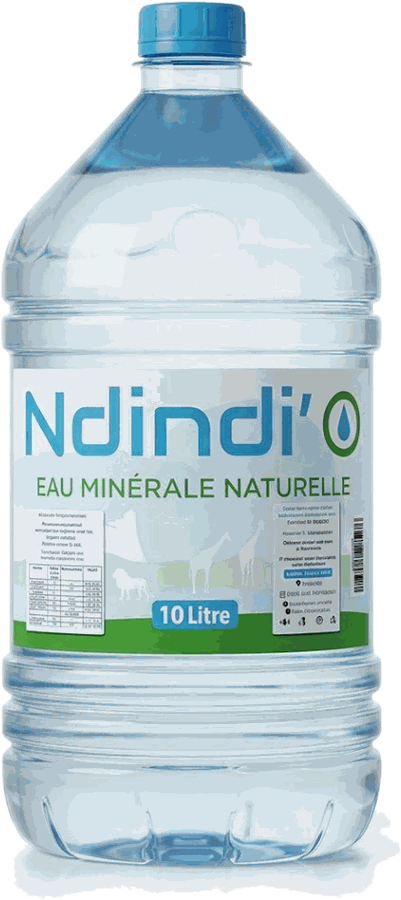
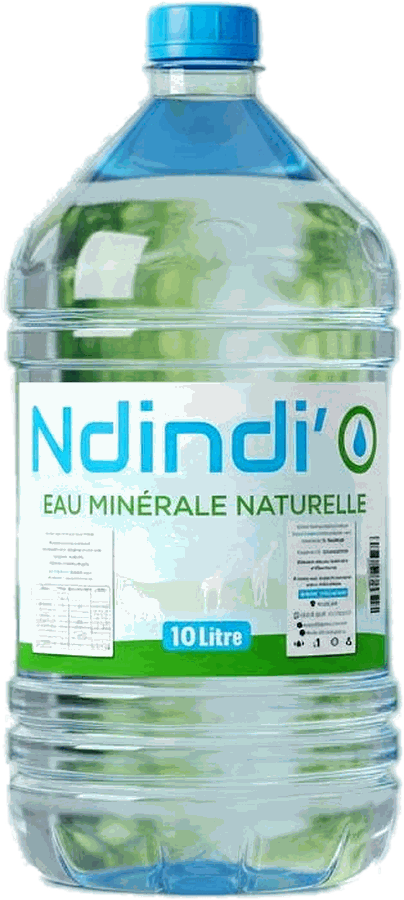
feat: packshot 10 L depuis modele 10L.png, e-mail unifie
Carte 10 L : source modele 10L.png, PNG sans canal alpha pose sur fond
blanc. Fond retire par remplissage par diffusion depuis les bords, comme
pour les deux autres formats.

E-mail : contact@eaundindi.com remplace par eaundindi@gmail.com sur les
7 pages, soit 36 occurrences. Barre du haut, pied de page, page Contact,
et destination des deux formulaires (data-mailto).

README : la section decrivant les anciens decoupages etait obsolete, elle
est reecrite sur l'etat reel.

diff --git a/contact.html b/contact.html
@@ -27,7 +27,7 @@
     <ul class="topbar__list" style="list-style:none;margin:0;padding:0">
       <li><a href="contact.html"><svg viewBox="0 0 24 24" fill="none" stroke="currentColor" stroke-width="1.8"><path d="M12 21s7-5.6 7-11a7 7 0 1 0-14 0c0 5.4 7 11 7 11z"/><circle cx="12" cy="10" r="2.6"/></svg> Touba Affè, Sénégal</a></li>
       <li><a href="tel:+221777882167"><svg viewBox="0 0 24 24" fill="none" stroke="currentColor" stroke-width="1.8"><path d="M22 16.9v3a2 2 0 0 1-2.2 2 19.8 19.8 0 0 1-8.6-3.1 19.5 19.5 0 0 1-6-6A19.8 19.8 0 0 1 2.1 4.2 2 2 0 0 1 4.1 2h3a2 2 0 0 1 2 1.7c.1 1 .4 1.9.7 2.8a2 2 0 0 1-.5 2.1L8.1 9.9a16 16 0 0 0 6 6l1.3-1.2a2 2 0 0 1 2.1-.5c.9.3 1.8.6 2.8.7a2 2 0 0 1 1.7 2z"/></svg> (+221) 77 788 21 67</a></li>
-      <li><a href="mailto:contact@eaundindi.com"><svg viewBox="0 0 24 24" fill="none" stroke="currentColor" stroke-width="1.8"><rect x="2.5" y="4.5" width="19" height="15" rx="2.5"/><path d="m3 7 9 6 9-6"/></svg> contact@eaundindi.com</a></li>
+      <li><a href="mailto:eaundindi@gmail.com"><svg viewBox="0 0 24 24" fill="none" stroke="currentColor" stroke-width="1.8"><rect x="2.5" y="4.5" width="19" height="15" rx="2.5"/><path d="m3 7 9 6 9-6"/></svg> eaundindi@gmail.com</a></li>
     </ul>
     <div class="topbar__social">
       <a href="https://web.facebook.com/profile.php?id=61568722525797" target="_blank" rel="noopener" aria-label="Facebook"><svg viewBox="0 0 24 24" fill="currentColor"><path d="M14 9h3V6h-3c-2.2 0-4 1.8-4 4v2H8v3h2v7h3v-7h3l1-3h-4v-2c0-.6.4-1 1-1z"/></svg></a>
@@ -94,7 +94,7 @@
           <div class="info-tile__ic"><svg viewBox="0 0 24 24" fill="none" stroke="currentColor" stroke-width="1.8"><rect x="2.5" y="4.5" width="19" height="15" rx="2.5"/><path d="m3 7 9 6 9-6"/></svg></div>
           <div>
             <h4>E-mail</h4>
-            <p><a href="mailto:contact@eaundindi.com">contact@eaundindi.com</a></p>
+            <p><a href="mailto:eaundindi@gmail.com">eaundindi@gmail.com</a></p>
           </div>
         </div>
 
@@ -123,7 +123,7 @@
     <div class="card card--dark reveal" data-delay="1" id="formulaire">
       <h3>Envoyez-nous un message</h3>
       <p style="margin-bottom:1.6rem">Remplissez ce formulaire&nbsp;: nous vous répondons dans les meilleurs délais.</p>
-      <form class="form" data-mailto="contact@eaundindi.com" novalidate>
+      <form class="form" data-mailto="eaundindi@gmail.com" novalidate>
         <div class="form__row">
           <div class="field">
             <label for="c-nom">Votre nom</label>
@@ -162,7 +162,7 @@
         <button class="btn btn--primary" type="submit">Envoyer le message
           <svg viewBox="0 0 24 24" fill="none" stroke="currentColor" stroke-width="2"><path d="M5 12h14m-6-6 6 6-6 6"/></svg>
         </button>
-        <p class="form__note" style="color:var(--on-dark-soft)">Vous pouvez aussi écrire directement à <a href="mailto:contact@eaundindi.com" style="color:var(--blue-light)">contact@eaundindi.com</a>.</p>
+        <p class="form__note" style="color:var(--on-dark-soft)">Vous pouvez aussi écrire directement à <a href="mailto:eaundindi@gmail.com" style="color:var(--blue-light)">eaundindi@gmail.com</a>.</p>
       </form>
     </div>
 
@@ -288,7 +288,7 @@
           <li>Touba Affè, Sénégal</li>
           <li><a href="tel:+221777882167">(+221) 77 788 21 67</a></li>
           <li><a href="tel:+221767665528">(+221) 76 766 55 28</a></li>
-          <li><a href="mailto:contact@eaundindi.com">contact@eaundindi.com</a></li>
+          <li><a href="mailto:eaundindi@gmail.com">eaundindi@gmail.com</a></li>
         </ul>
       </div>
     </div>

diff --git a/distribution.html b/distribution.html
@@ -27,7 +27,7 @@
     <ul class="topbar__list" style="list-style:none;margin:0;padding:0">
       <li><a href="contact.html"><svg viewBox="0 0 24 24" fill="none" stroke="currentColor" stroke-width="1.8"><path d="M12 21s7-5.6 7-11a7 7 0 1 0-14 0c0 5.4 7 11 7 11z"/><circle cx="12" cy="10" r="2.6"/></svg> Touba Affè, Sénégal</a></li>
       <li><a href="tel:+221777882167"><svg viewBox="0 0 24 24" fill="none" stroke="currentColor" stroke-width="1.8"><path d="M22 16.9v3a2 2 0 0 1-2.2 2 19.8 19.8 0 0 1-8.6-3.1 19.5 19.5 0 0 1-6-6A19.8 19.8 0 0 1 2.1 4.2 2 2 0 0 1 4.1 2h3a2 2 0 0 1 2 1.7c.1 1 .4 1.9.7 2.8a2 2 0 0 1-.5 2.1L8.1 9.9a16 16 0 0 0 6 6l1.3-1.2a2 2 0 0 1 2.1-.5c.9.3 1.8.6 2.8.7a2 2 0 0 1 1.7 2z"/></svg> (+221) 77 788 21 67</a></li>
-      <li><a href="mailto:contact@eaundindi.com"><svg viewBox="0 0 24 24" fill="none" stroke="currentColor" stroke-width="1.8"><rect x="2.5" y="4.5" width="19" height="15" rx="2.5"/><path d="m3 7 9 6 9-6"/></svg> contact@eaundindi.com</a></li>
+      <li><a href="mailto:eaundindi@gmail.com"><svg viewBox="0 0 24 24" fill="none" stroke="currentColor" stroke-width="1.8"><rect x="2.5" y="4.5" width="19" height="15" rx="2.5"/><path d="m3 7 9 6 9-6"/></svg> eaundindi@gmail.com</a></li>
     </ul>
     <div class="topbar__social">
       <a href="https://web.facebook.com/profile.php?id=61568722525797" target="_blank" rel="noopener" aria-label="Facebook"><svg viewBox="0 0 24 24" fill="currentColor"><path d="M14 9h3V6h-3c-2.2 0-4 1.8-4 4v2H8v3h2v7h3v-7h3l1-3h-4v-2c0-.6.4-1 1-1z"/></svg></a>
@@ -250,7 +250,7 @@
     <div class="card card--dark reveal" data-delay="1">
       <h3>Demande de partenariat</h3>
       <p style="margin-bottom:1.6rem">Renseignez ces quelques informations&nbsp;: nous revenons vers vous rapidement.</p>
-      <form class="form" data-mailto="contact@eaundindi.com" novalidate>
+      <form class="form" data-mailto="eaundindi@gmail.com" novalidate>
         <div class="form__row">
           <div class="field">
             <label for="p-nom">Nom et prénom</label>
@@ -337,7 +337,7 @@
           <li>Touba Affè, Sénégal</li>
           <li><a href="tel:+221777882167">(+221) 77 788 21 67</a></li>
           <li><a href="tel:+221767665528">(+221) 76 766 55 28</a></li>
-          <li><a href="mailto:contact@eaundindi.com">contact@eaundindi.com</a></li>
+          <li><a href="mailto:eaundindi@gmail.com">eaundindi@gmail.com</a></li>
         </ul>
       </div>
     </div>

diff --git a/engagement.html b/engagement.html
@@ -27,7 +27,7 @@
     <ul class="topbar__list" style="list-style:none;margin:0;padding:0">
       <li><a href="contact.html"><svg viewBox="0 0 24 24" fill="none" stroke="currentColor" stroke-width="1.8"><path d="M12 21s7-5.6 7-11a7 7 0 1 0-14 0c0 5.4 7 11 7 11z"/><circle cx="12" cy="10" r="2.6"/></svg> Touba Affè, Sénégal</a></li>
       <li><a href="tel:+221777882167"><svg viewBox="0 0 24 24" fill="none" stroke="currentColor" stroke-width="1.8"><path d="M22 16.9v3a2 2 0 0 1-2.2 2 19.8 19.8 0 0 1-8.6-3.1 19.5 19.5 0 0 1-6-6A19.8 19.8 0 0 1 2.1 4.2 2 2 0 0 1 4.1 2h3a2 2 0 0 1 2 1.7c.1 1 .4 1.9.7 2.8a2 2 0 0 1-.5 2.1L8.1 9.9a16 16 0 0 0 6 6l1.3-1.2a2 2 0 0 1 2.1-.5c.9.3 1.8.6 2.8.7a2 2 0 0 1 1.7 2z"/></svg> (+221) 77 788 21 67</a></li>
-      <li><a href="mailto:contact@eaundindi.com"><svg viewBox="0 0 24 24" fill="none" stroke="currentColor" stroke-width="1.8"><rect x="2.5" y="4.5" width="19" height="15" rx="2.5"/><path d="m3 7 9 6 9-6"/></svg> contact@eaundindi.com</a></li>
+      <li><a href="mailto:eaundindi@gmail.com"><svg viewBox="0 0 24 24" fill="none" stroke="currentColor" stroke-width="1.8"><rect x="2.5" y="4.5" width="19" height="15" rx="2.5"/><path d="m3 7 9 6 9-6"/></svg> eaundindi@gmail.com</a></li>
     </ul>
     <div class="topbar__social">
       <a href="https://web.facebook.com/profile.php?id=61568722525797" target="_blank" rel="noopener" aria-label="Facebook"><svg viewBox="0 0 24 24" fill="currentColor"><path d="M14 9h3V6h-3c-2.2 0-4 1.8-4 4v2H8v3h2v7h3v-7h3l1-3h-4v-2c0-.6.4-1 1-1z"/></svg></a>
@@ -229,7 +229,7 @@
           <li>Touba Affè, Sénégal</li>
           <li><a href="tel:+221777882167">(+221) 77 788 21 67</a></li>
           <li><a href="tel:+221767665528">(+221) 76 766 55 28</a></li>
-          <li><a href="mailto:contact@eaundindi.com">contact@eaundindi.com</a></li>
+          <li><a href="mailto:eaundindi@gmail.com">eaundindi@gmail.com</a></li>
         </ul>
       </div>
     </div>

diff --git a/index.html b/index.html
@@ -28,7 +28,7 @@
     <ul class="topbar__list" style="list-style:none;margin:0;padding:0">
       <li><a href="contact.html"><svg viewBox="0 0 24 24" fill="none" stroke="currentColor" stroke-width="1.8"><path d="M12 21s7-5.6 7-11a7 7 0 1 0-14 0c0 5.4 7 11 7 11z"/><circle cx="12" cy="10" r="2.6"/></svg> Touba Affè, Sénégal</a></li>
       <li><a href="tel:+221777882167"><svg viewBox="0 0 24 24" fill="none" stroke="currentColor" stroke-width="1.8"><path d="M22 16.9v3a2 2 0 0 1-2.2 2 19.8 19.8 0 0 1-8.6-3.1 19.5 19.5 0 0 1-6-6A19.8 19.8 0 0 1 2.1 4.2 2 2 0 0 1 4.1 2h3a2 2 0 0 1 2 1.7c.1 1 .4 1.9.7 2.8a2 2 0 0 1-.5 2.1L8.1 9.9a16 16 0 0 0 6 6l1.3-1.2a2 2 0 0 1 2.1-.5c.9.3 1.8.6 2.8.7a2 2 0 0 1 1.7 2z"/></svg> (+221) 77 788 21 67</a></li>
-      <li><a href="mailto:contact@eaundindi.com"><svg viewBox="0 0 24 24" fill="none" stroke="currentColor" stroke-width="1.8"><rect x="2.5" y="4.5" width="19" height="15" rx="2.5"/><path d="m3 7 9 6 9-6"/></svg> contact@eaundindi.com</a></li>
+      <li><a href="mailto:eaundindi@gmail.com"><svg viewBox="0 0 24 24" fill="none" stroke="currentColor" stroke-width="1.8"><rect x="2.5" y="4.5" width="19" height="15" rx="2.5"/><path d="m3 7 9 6 9-6"/></svg> eaundindi@gmail.com</a></li>
     </ul>
     <div class="topbar__social">
       <a href="https://web.facebook.com/profile.php?id=61568722525797" target="_blank" rel="noopener" aria-label="Facebook"><svg viewBox="0 0 24 24" fill="currentColor"><path d="M14 9h3V6h-3c-2.2 0-4 1.8-4 4v2H8v3h2v7h3v-7h3l1-3h-4v-2c0-.6.4-1 1-1z"/></svg></a>
@@ -381,7 +381,7 @@
           <li>Touba Affè, Sénégal</li>
           <li><a href="tel:+221777882167">(+221) 77 788 21 67</a></li>
           <li><a href="tel:+221767665528">(+221) 76 766 55 28</a></li>
-          <li><a href="mailto:contact@eaundindi.com">contact@eaundindi.com</a></li>
+          <li><a href="mailto:eaundindi@gmail.com">eaundindi@gmail.com</a></li>
         </ul>
       </div>
     </div>

diff --git a/mediatheque.html b/mediatheque.html
@@ -27,7 +27,7 @@
     <ul class="topbar__list" style="list-style:none;margin:0;padding:0">
       <li><a href="contact.html"><svg viewBox="0 0 24 24" fill="none" stroke="currentColor" stroke-width="1.8"><path d="M12 21s7-5.6 7-11a7 7 0 1 0-14 0c0 5.4 7 11 7 11z"/><circle cx="12" cy="10" r="2.6"/></svg> Touba Affè, Sénégal</a></li>
       <li><a href="tel:+221777882167"><svg viewBox="0 0 24 24" fill="none" stroke="currentColor" stroke-width="1.8"><path d="M22 16.9v3a2 2 0 0 1-2.2 2 19.8 19.8 0 0 1-8.6-3.1 19.5 19.5 0 0 1-6-6A19.8 19.8 0 0 1 2.1 4.2 2 2 0 0 1 4.1 2h3a2 2 0 0 1 2 1.7c.1 1 .4 1.9.7 2.8a2 2 0 0 1-.5 2.1L8.1 9.9a16 16 0 0 0 6 6l1.3-1.2a2 2 0 0 1 2.1-.5c.9.3 1.8.6 2.8.7a2 2 0 0 1 1.7 2z"/></svg> (+221) 77 788 21 67</a></li>
-      <li><a href="mailto:contact@eaundindi.com"><svg viewBox="0 0 24 24" fill="none" stroke="currentColor" stroke-width="1.8"><rect x="2.5" y="4.5" width="19" height="15" rx="2.5"/><path d="m3 7 9 6 9-6"/></svg> contact@eaundindi.com</a></li>
+      <li><a href="mailto:eaundindi@gmail.com"><svg viewBox="0 0 24 24" fill="none" stroke="currentColor" stroke-width="1.8"><rect x="2.5" y="4.5" width="19" height="15" rx="2.5"/><path d="m3 7 9 6 9-6"/></svg> eaundindi@gmail.com</a></li>
     </ul>
     <div class="topbar__social">
       <a href="https://web.facebook.com/profile.php?id=61568722525797" target="_blank" rel="noopener" aria-label="Facebook"><svg viewBox="0 0 24 24" fill="currentColor"><path d="M14 9h3V6h-3c-2.2 0-4 1.8-4 4v2H8v3h2v7h3v-7h3l1-3h-4v-2c0-.6.4-1 1-1z"/></svg></a>
@@ -225,7 +225,7 @@
           <li>Touba Affè, Sénégal</li>
           <li><a href="tel:+221777882167">(+221) 77 788 21 67</a></li>
           <li><a href="tel:+221767665528">(+221) 76 766 55 28</a></li>
-          <li><a href="mailto:contact@eaundindi.com">contact@eaundindi.com</a></li>
+          <li><a href="mailto:eaundindi@gmail.com">eaundindi@gmail.com</a></li>
         </ul>
       </div>
     </div>

diff --git a/nos-formats.html b/nos-formats.html
@@ -27,7 +27,7 @@
     <ul class="topbar__list" style="list-style:none;margin:0;padding:0">
       <li><a href="contact.html"><svg viewBox="0 0 24 24" fill="none" stroke="currentColor" stroke-width="1.8"><path d="M12 21s7-5.6 7-11a7 7 0 1 0-14 0c0 5.4 7 11 7 11z"/><circle cx="12" cy="10" r="2.6"/></svg> Touba Affè, Sénégal</a></li>
       <li><a href="tel:+221777882167"><svg viewBox="0 0 24 24" fill="none" stroke="currentColor" stroke-width="1.8"><path d="M22 16.9v3a2 2 0 0 1-2.2 2 19.8 19.8 0 0 1-8.6-3.1 19.5 19.5 0 0 1-6-6A19.8 19.8 0 0 1 2.1 4.2 2 2 0 0 1 4.1 2h3a2 2 0 0 1 2 1.7c.1 1 .4 1.9.7 2.8a2 2 0 0 1-.5 2.1L8.1 9.9a16 16 0 0 0 6 6l1.3-1.2a2 2 0 0 1 2.1-.5c.9.3 1.8.6 2.8.7a2 2 0 0 1 1.7 2z"/></svg> (+221) 77 788 21 67</a></li>
-      <li><a href="mailto:contact@eaundindi.com"><svg viewBox="0 0 24 24" fill="none" stroke="currentColor" stroke-width="1.8"><rect x="2.5" y="4.5" width="19" height="15" rx="2.5"/><path d="m3 7 9 6 9-6"/></svg> contact@eaundindi.com</a></li>
+      <li><a href="mailto:eaundindi@gmail.com"><svg viewBox="0 0 24 24" fill="none" stroke="currentColor" stroke-width="1.8"><rect x="2.5" y="4.5" width="19" height="15" rx="2.5"/><path d="m3 7 9 6 9-6"/></svg> eaundindi@gmail.com</a></li>
     </ul>
     <div class="topbar__social">
       <a href="https://web.facebook.com/profile.php?id=61568722525797" target="_blank" rel="noopener" aria-label="Facebook"><svg viewBox="0 0 24 24" fill="currentColor"><path d="M14 9h3V6h-3c-2.2 0-4 1.8-4 4v2H8v3h2v7h3v-7h3l1-3h-4v-2c0-.6.4-1 1-1z"/></svg></a>
@@ -303,7 +303,7 @@
           <li>Touba Affè, Sénégal</li>
           <li><a href="tel:+221777882167">(+221) 77 788 21 67</a></li>
           <li><a href="tel:+221767665528">(+221) 76 766 55 28</a></li>
-          <li><a href="mailto:contact@eaundindi.com">contact@eaundindi.com</a></li>
+          <li><a href="mailto:eaundindi@gmail.com">eaundindi@gmail.com</a></li>
         </ul>
       </div>
     </div>

diff --git a/notre-eau.html b/notre-eau.html
@@ -27,7 +27,7 @@
     <ul class="topbar__list" style="list-style:none;margin:0;padding:0">
       <li><a href="contact.html"><svg viewBox="0 0 24 24" fill="none" stroke="currentColor" stroke-width="1.8"><path d="M12 21s7-5.6 7-11a7 7 0 1 0-14 0c0 5.4 7 11 7 11z"/><circle cx="12" cy="10" r="2.6"/></svg> Touba Affè, Sénégal</a></li>
       <li><a href="tel:+221777882167"><svg viewBox="0 0 24 24" fill="none" stroke="currentColor" stroke-width="1.8"><path d="M22 16.9v3a2 2 0 0 1-2.2 2 19.8 19.8 0 0 1-8.6-3.1 19.5 19.5 0 0 1-6-6A19.8 19.8 0 0 1 2.1 4.2 2 2 0 0 1 4.1 2h3a2 2 0 0 1 2 1.7c.1 1 .4 1.9.7 2.8a2 2 0 0 1-.5 2.1L8.1 9.9a16 16 0 0 0 6 6l1.3-1.2a2 2 0 0 1 2.1-.5c.9.3 1.8.6 2.8.7a2 2 0 0 1 1.7 2z"/></svg> (+221) 77 788 21 67</a></li>
-      <li><a href="mailto:contact@eaundindi.com"><svg viewBox="0 0 24 24" fill="none" stroke="currentColor" stroke-width="1.8"><rect x="2.5" y="4.5" width="19" height="15" rx="2.5"/><path d="m3 7 9 6 9-6"/></svg> contact@eaundindi.com</a></li>
+      <li><a href="mailto:eaundindi@gmail.com"><svg viewBox="0 0 24 24" fill="none" stroke="currentColor" stroke-width="1.8"><rect x="2.5" y="4.5" width="19" height="15" rx="2.5"/><path d="m3 7 9 6 9-6"/></svg> eaundindi@gmail.com</a></li>
     </ul>
     <div class="topbar__social">
       <a href="https://web.facebook.com/profile.php?id=61568722525797" target="_blank" rel="noopener" aria-label="Facebook"><svg viewBox="0 0 24 24" fill="currentColor"><path d="M14 9h3V6h-3c-2.2 0-4 1.8-4 4v2H8v3h2v7h3v-7h3l1-3h-4v-2c0-.6.4-1 1-1z"/></svg></a>
@@ -253,7 +253,7 @@
           <li>Touba Affè, Sénégal</li>
           <li><a href="tel:+221777882167">(+221) 77 788 21 67</a></li>
           <li><a href="tel:+221767665528">(+221) 76 766 55 28</a></li>
-          <li><a href="mailto:contact@eaundindi.com">contact@eaundindi.com</a></li>
+          <li><a href="mailto:eaundindi@gmail.com">eaundindi@gmail.com</a></li>
         </ul>
       </div>
     </div>

diff --git a/README.md b/README.md
@@ -68,29 +68,35 @@ du véhicule de livraison de la marque — à confirmer avant publication.
 Aucun chiffre non vérifié (capacité de production, effectifs, parts de marché,
 nombre de points de vente) n'a été publié.
 
-## Visuels produit — packshots officiels
+## Cartes de format — packshots détourés
 
-Les trois cartes de format viennent désormais de vraies prises de vue produit
-fournies par la marque, et non plus de découpes dans une affiche promotionnelle.
+Les trois cartes utilisent des packshots **détourés** fournis par la marque : la
+bouteille flotte sur la carte, sans cadre ni fond, avec une simple ombre portée.
 
-| Fichier | Format | Source | Découpe |
+| Fichier | Format | Source | Hauteur d'affichage |
 |---|---|---|---|
-| `produit-350.jpg` | 350 ml | `images/New/Bureau fille 3 bouteilles de Ndindi.jfif` | 102, 436, 190, 698 |
-| `produit-15l.jpg` | 1,5 L | `images/New/Bureau fille 3 bouteilles de Ndindi.jfif` | 186, 310, 296, 698 |
-| `produit-10l.jpg` | 10 L | `images/New/grand format 10L5.jfif` | 175, 10, 615, 760 |
+| `produit-350.png` | 350 ml | `images/New/petit modele.png` | 200 px |
+| `produit-15l.png` | 1,5 L | `images/New/modele moyen.png` | 325 px |
+| `produit-10l.png` | 10 L | `images/New/modele 10L.png` | 400 px |
 
-La hauteur d'affichage de chaque vignette (`--shot-h` : 200 / 325 / 400 px)
-reproduit l'échelle réelle entre les formats, les trois reposant sur une ligne
-de base commune.
+Les hauteurs reproduisent l'échelle réelle entre les contenants, les trois
+reposant sur une ligne de base commune.
 
-Le 350 ml et le 1,5 L sont découpés dans la même photo de bureau : même fond
-olive, même table blanche, même éclairage, et surtout le rapport de taille réel
-entre les deux contenants. Les découpes font 88×262 et 110×388 pixels, donc
-réduites à l'affichage et jamais agrandies. Le 10 L garde son packshot sur fond
-vert flouté : c'est le seul dont on dispose.
+**Deux pièges rencontrés, à connaître si vous refaites l'opération.**
 
-Les découpes précédentes, issues de l'affiche Korité, ont été remplacées, ainsi
-que `b2.jpg` (bouteille avec pastille ronde) et `pack-350.png`, retirés du site.
+Le 350 ml et le 1,5 L arrivent déjà détourés, mais leurs PNG contiennent un halo
+semi-transparent bien plus large que la bouteille. Un `getbbox()` naïf garde ce
+halo et fait paraître la bouteille deux fois plus étroite qu'elle ne devrait dans
+son cadre. Le recadrage se fait sur les pixels d'alpha > 10.
+
+Le 10 L arrive en PNG **sans canal alpha**, posé sur fond blanc. Le fond est
+retiré par remplissage par diffusion depuis les bords, ce qui efface le blanc
+*relié au bord* sans toucher à l'intérieur de la bouteille, blanc lui aussi à
+plusieurs endroits. Un simple seuil de luminosité aurait percé l'étiquette et
+l'eau.
+
+Les découpes précédentes, issues de l'affiche Korité puis de la photo de bureau,
+ont été remplacées. `b2.jpg` et `pack-350.png` ont été retirés du site.
 
 ## Autres visuels fournis par la marque
 
@@ -116,7 +122,7 @@ Nouveau lot fourni par la marque, rangé dans `images/New/`.
 | `logo-ndindi.jpg` | En-tête, pied de page et icône des 7 pages | `images/New/LOGO250-150x150.jpg` |
 | `produit-350.png` | Carte 350 ml | `images/New/petit modele.png`, détouré |
 | `produit-15l.png` | Carte 1,5 L | `images/New/modele moyen.png`, détouré |
-| `produit-10l.png` | Carte 10 L | `images/New/grand modele.jfif`, fond blanc retiré |
+| `produit-10l.png` | Carte 10 L | `images/New/modele 10L.png`, fond blanc retiré |
 | `agents-commerciaux.jpg` | Distribution, « Vos agents commerciaux » | commerciaux |
 
 Trois vidéos ont rejoint la médiathèque, dans `assets/video/` : `tapis-roulant.mp4`
@@ -126,14 +132,17 @@ chargées en `preload="metadata"`.
 
 ### Deux points en attente
 
-1. **Trois jeux de coordonnées coexistent.** Le carton `commerciaux.jfif` est
-   publié sur la page Distribution, section « Vos agents commerciaux », sur
-   décision de la marque. Il affiche `+221 78 123 45 67`, `eau.ndindi@gmail.com`
-   et `www.ndindi-eau.sn`. Le carton `logonouveau` donne `eaundindi@gmail.com` et
-   `+221 78 293 77 38`. Le site affiche, lui, `contact@eaundindi.com` et
+1. **Coordonnées : l'e-mail est tranché, les numéros ne le sont pas.**
+   `eaundindi@gmail.com` est l'adresse retenue, appliquée partout : barre du
+   haut, pied de page, page Contact, et destination des deux formulaires
+   (`data-mailto`). L'ancienne `contact@eaundindi.com` n'apparaît plus nulle part.
+
+   Restent divergents : le carton `commerciaux.jfif`, publié sur la page
+   Distribution, affiche `+221 78 123 45 67` et le site `www.ndindi-eau.sn` ;
+   le carton `logonouveau` donne `+221 78 293 77 38` ; le site affiche
    `+221 76 766 55 28`. Seuls les deux numéros d'agents ont été transcrits en
-   liens cliquables ; la ligne de contact générique du carton n'a pas été reprise
-   en texte, pour ne pas contredire l'en-tête et le pied de page. À unifier.
+   liens cliquables, la ligne générique du carton reste visible dans l'image
+   uniquement. À unifier.
 2. **Le logo sert aussi de favicon**, en 150×150 JPEG. Un PNG transparent ou un
    SVG donnerait un rendu plus net, et 180×180 serait préférable pour l'icône
    iOS. Le mot-vedette « Ndindi'O » de l'en-tête reste composé en Cormorant
@@ -161,24 +170,6 @@ deux images.
 sous le mot-vedette de l'en-tête des 7 pages, dans le titre de la page d'accueil,
 dans le pied de page et dans la méta description. La ligne de signature qui
 répétait l'ancien slogan sous le héros a été retirée.
-
-### Cartes de format
-
-Les trois formats utilisent des packshots **détourés** : la bouteille flotte sur
-la carte, sans cadre ni fond, avec une simple ombre portée. Hauteurs d'affichage
-200 / 325 / 400 px, fidèles à l'échelle réelle entre les contenants, les trois
-reposant sur une ligne de base commune.
-
-Le 350 ml et le 1,5 L viennent de PNG déjà détourés. Le 10 L vient d'un JPEG sur
-fond blanc&nbsp;: le fond a été retiré par remplissage par diffusion depuis les
-bords, ce qui efface le blanc **relié au bord** sans toucher à l'intérieur de la
-bouteille, blanc lui aussi à plusieurs endroits. Un simple seuil de luminosité
-aurait percé l'étiquette et l'eau.
-
-Attention au recadrage&nbsp;: les deux PNG fournis contiennent un halo
-semi-transparent bien plus large que la bouteille. Un `getbbox()` naïfe garde ce
-halo et fait paraître la bouteille deux fois plus étroite qu'elle ne devrait dans
-son cadre. Le recadrage se fait sur les pixels d'alpha > 10.
 
 ## Visuels issus d'Instagram
 
@@ -213,7 +204,7 @@ nouveau packaging, soit assumer la cohabitation.
 
 Les deux formulaires (contact et partenariat) fonctionnent **sans backend** :
 ils ouvrent la messagerie du visiteur avec un message pré-rempli vers
-`contact@eaundindi.com` (attribut `data-mailto` sur la balise `<form>`).
+`eaundindi@gmail.com` (attribut `data-mailto` sur la balise `<form>`).
 
 Pour un envoi serveur (recommandé à terme), brancher un service type Formspree,
 Cloudflare Worker ou Web3Forms : il suffit de remplacer le gestionnaire `submit`
